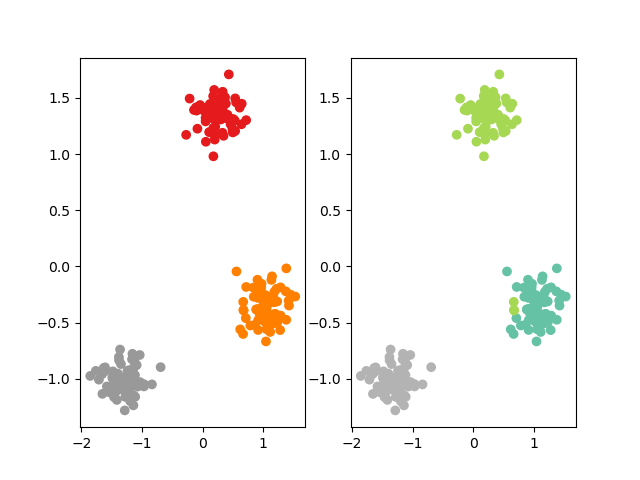
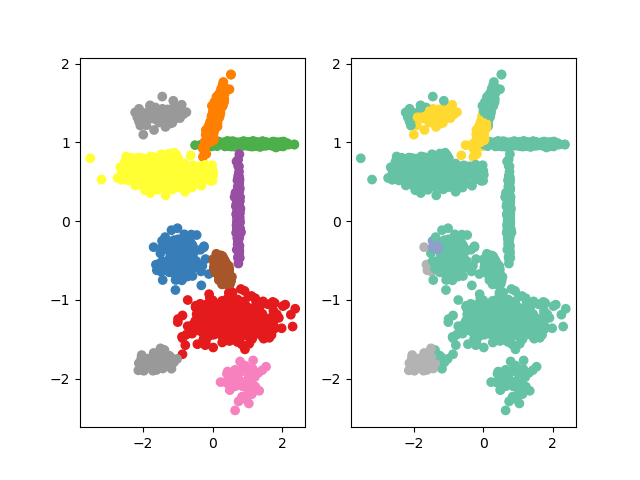
added k means ++ initialization

diff --git a/DEC/standard_dec.py b/DEC/standard_dec.py
@@ -12,7 +12,11 @@ from matplotlib.patches import Ellipse
 from defines import *
 
 
-def initialize(X, n_pop, eps=10e-6, beta=BETA, dtype=np.float64):
+def euclidian_distance(x, y):
+    return np.linalg.norm(x - y)
+
+
+def initialize(X, n_pop, eps=10e-6, beta=BETA, dtype=np.float64, smart_init=False):
     """
     Initializes the population for the CDE clustering algorithm.
 
@@ -44,7 +48,28 @@ def initialize(X, n_pop, eps=10e-6, beta=BETA, dtype=np.float64):
     a, b = np.min(X, axis=0), np.max(X, axis=0)
     assert (a < b).all(), "domain invalid; a must be smaller than b"
     rng = np.random.default_rng()
-    centroids = X[rng.integers(X.shape[0], size=n_pop)]
+    if not smart_init:
+        centroids = X[rng.integers(X.shape[0], size=n_pop)]
+    else:
+        centroids = np.zeros(shape=(n_pop, X[0].shape[0]))
+        # the first centroid will be a randomly selected data point
+        centroids[0] = X[rng.integers(X.shape[0], size=1)]
+        for k in range(1, n_pop):
+            max_dist, max_p = 0, 0
+            for i in range(X.shape[0]):
+                point = X[i, :]
+                min_dist, min_p = 999, 0
+                # compute distance of 'point' from each of the previously selected centroid
+                # and store the minimum distance
+                for j in range(k):
+                    dist = np.linalg.norm(point - centroids[j])
+                    if dist < min_dist:
+                        min_dist, min_p = dist, i
+                if min_dist > max_dist:
+                    max_dist, max_p = min_dist, min_p
+            # select data point with maximum distance as our next centroid
+            centroids[k] = X[max_p, :]
+
     # centroids = a + (b - a) * rng.random(size=shape, dtype=dtype)
     variances = eps + rng.random(size=(n_pop, X.shape[1])) * ((b - a) / beta)
     # variances = eps + ((b - a) / beta) * rng.random(size=shape, dtype=dtype)
@@ -295,7 +320,7 @@ def load_custom_data(file_path):
 
 
 # noinspection PyUnreachableCode
-def differential_clustering(X, y, n_iter, crowding=True):
+def differential_clustering(X, y, n_iter, crowding=True, smart_init=False):
     """
     CDE-based clustering algorithm with gaussian mixtures.
 
@@ -310,7 +335,7 @@ def differential_clustering(X, y, n_iter, crowding=True):
             Default value is True (False branch hasn't been implemented).
     """
     # This population is only for testing purposes.
-    pop = initialize(X, POP_SIZE)
+    pop = initialize(X, min(X.shape[0] // 2, POP_SIZE), smart_init=smart_init)
     # Precompute ranges that are needed for selecting indices distinct from
     # i, for all i in {0...m-1}. It's an implementation detail, but it reduces
     # execution time to initialize it only once here.
@@ -389,7 +414,7 @@ def main():
     X, y = load_custom_data(os.path.join(DATA_DIR, '2d-10c.dat'))
     # X, y = make_blobs(200, 2)
     scaler.fit(X)
-    differential_clustering(scaler.transform(X), y, N_ITER)
+    differential_clustering(scaler.transform(X), y, N_ITER, smart_init=True)
 
 
 if __name__ == '__main__':

diff --git a/DEC/defines.py b/DEC/defines.py
@@ -1,10 +1,10 @@
-N_ITER = 150
-POP_SIZE = 50
+N_ITER = 300
+POP_SIZE = 10
 BETA = 3
-F_VAL = 1.0
+F_VAL = 1
 CROSSOVER_P = 0.6
-DELTA_1 = 0.5
-DELTA_2 = 0.7
-DELTA_3 = 0.9
+DELTA_1 = 0.1
+DELTA_2 = 0.2
+DELTA_3 = 0.3
 DATA_DIR = 'data'
 RESULT_DIR = 'result'
